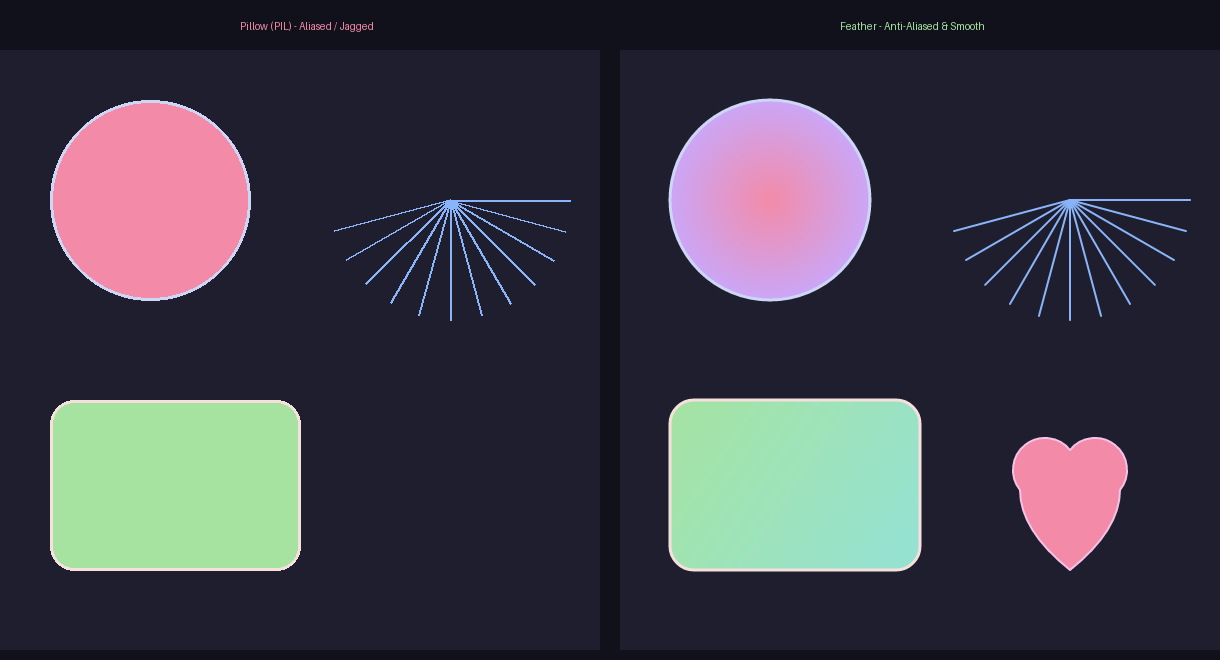
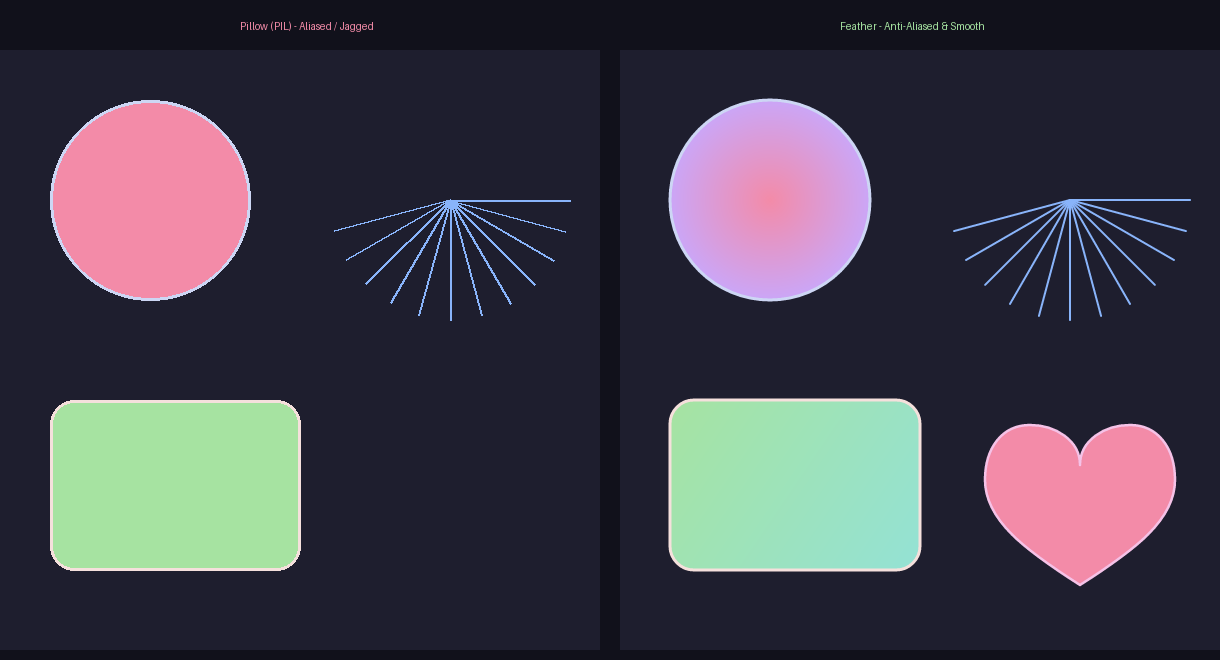
fix: replace malformed heart SVG path with smooth cubic bezier heart curves

Changed region(s): [[0.7787, 0.6364, 0.9656, 0.8788]]

diff --git a/tests/test_render.py b/tests/test_render.py
@@ -55,9 +55,17 @@ def generate_visual_comparison():
     lin_grad = LinearGradient(50, 350, 300, 520, stops=[(0.0, "#a6e3a1"), (1.0, "#94e2d5")])
     pf_canvas.draw_rounded_rect(50, 350, 250, 170, rx=24, fill=lin_grad, stroke="#f5e0dc", stroke_width=3.0)
 
-    # SVG Heart path
-    heart = "M 450,400 A 30,30 0 0,0 400,440 Q 400,480 450,520 Q 500,480 500,440 A 30,30 0 0,0 450,400 Z"
-    pf_canvas.draw_svg_path(heart, fill="#f38ba8", stroke="#f5c2e7", stroke_width=2.0)
+    # Smooth, beautifully curved SVG Heart path
+    heart = (
+        "M 460 415 "
+        "C 460 390, 435 375, 410 375 "
+        "C 382 375, 365 398, 365 430 "
+        "C 365 470, 405 500, 460 535 "
+        "C 515 500, 555 470, 555 430 "
+        "C 555 398, 538 375, 510 375 "
+        "C 485 375, 460 390, 460 415 Z"
+    )
+    pf_canvas.draw_svg_path(heart, fill="#f38ba8", stroke="#f5c2e7", stroke_width=2.5)
 
     pf_path = os.path.join(output_dir, "comparison_feather.png")
     pf_canvas.save(pf_path)
